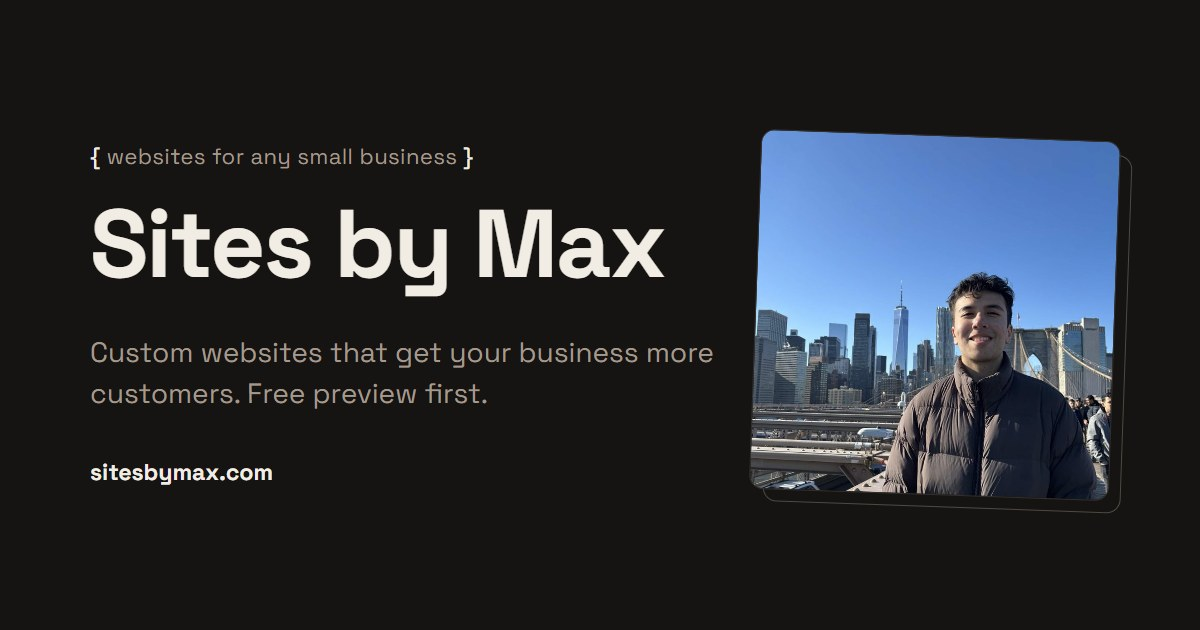
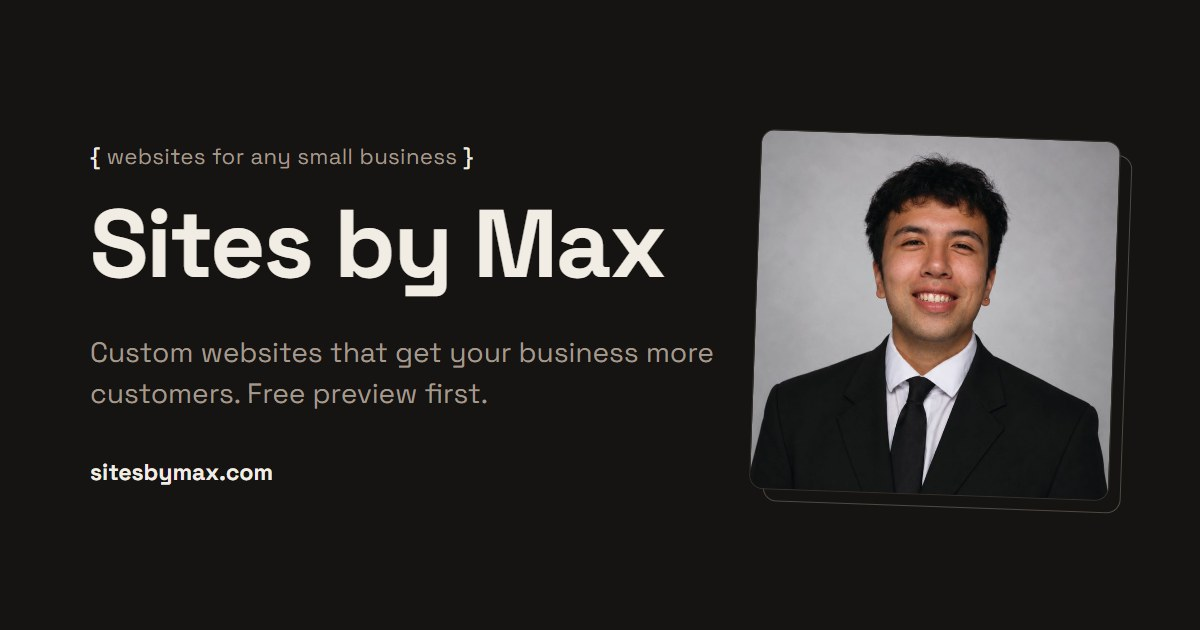
Swap in new headshot photo
- New headshot (color-managed from the CMYK original) as max-headshot.{avif,webp,jpg}
- Point homepage and pressure-washing page hero at the new files, update alt text
- Re-render og-v2.jpg share image with the new photo

Changed region(s): [[0.6167, 0.181, 0.9558, 0.8143]]

diff --git a/pressure-washing-websites.html b/pressure-washing-websites.html
@@ -74,7 +74,7 @@
   <link rel="icon" href="/assets/logo.png">
   <link rel="apple-touch-icon" href="/assets/logo.png">
   <meta name="theme-color" content="#161412">
-  <link rel="preload" as="image" href="/assets/max.avif" type="image/avif" fetchpriority="high">
+  <link rel="preload" as="image" href="/assets/max-headshot.avif" type="image/avif" fetchpriority="high">
   <style>
     /* Critical above-the-fold CSS, inlined for first paint. Source of truth: styles.css (loads async below). */
     @font-face{font-family:'Space Grotesk';font-style:normal;font-weight:400 700;font-display:optional;src:url('/fonts/space-grotesk-latin.woff2') format('woff2');unicode-range:U+0000-00FF,U+0131,U+0152-0153,U+02BB-02BC,U+02C6,U+02DA,U+02DC,U+0304,U+0308,U+0329,U+2000-206F,U+20AC,U+2122,U+2191,U+2193,U+2212,U+2215,U+FEFF,U+FFFD}
@@ -181,9 +181,9 @@
       </div>
       <div class="hero-photo">
         <picture>
-          <source srcset="/assets/max.avif" type="image/avif">
-          <source srcset="/assets/max.webp" type="image/webp">
-          <img src="/assets/max.jpg" alt="Max on the Brooklyn Bridge" width="700" height="700" fetchpriority="high">
+          <source srcset="/assets/max-headshot.avif" type="image/avif">
+          <source srcset="/assets/max-headshot.webp" type="image/webp">
+          <img src="/assets/max-headshot.jpg" alt="Headshot of Max Lichter" width="700" height="700" fetchpriority="high">
         </picture>
         <span class="hero-photo-caption">this is me. the whole team.</span>
       </div>

diff --git a/index.html b/index.html
@@ -113,7 +113,7 @@
   <link rel="icon" href="assets/logo.png">
   <link rel="apple-touch-icon" href="/assets/logo.png">
   <meta name="theme-color" content="#161412">
-  <link rel="preload" as="image" href="assets/max.avif" type="image/avif" fetchpriority="high">
+  <link rel="preload" as="image" href="assets/max-headshot.avif" type="image/avif" fetchpriority="high">
   <style>
     /* Critical above-the-fold CSS, inlined for first paint. Source of truth: styles.css (loads async below). */
     @font-face{font-family:'Space Grotesk';font-style:normal;font-weight:400 700;font-display:optional;src:url('/fonts/space-grotesk-latin.woff2') format('woff2');unicode-range:U+0000-00FF,U+0131,U+0152-0153,U+02BB-02BC,U+02C6,U+02DA,U+02DC,U+0304,U+0308,U+0329,U+2000-206F,U+20AC,U+2122,U+2191,U+2193,U+2212,U+2215,U+FEFF,U+FFFD}
@@ -303,9 +303,9 @@
       </div>
       <div class="hero-photo">
         <picture>
-          <source srcset="assets/max.avif" type="image/avif">
-          <source srcset="assets/max.webp" type="image/webp">
-          <img src="assets/max.jpg" alt="Max on the Brooklyn Bridge" width="700" height="700" fetchpriority="high">
+          <source srcset="assets/max-headshot.avif" type="image/avif">
+          <source srcset="assets/max-headshot.webp" type="image/webp">
+          <img src="assets/max-headshot.jpg" alt="Headshot of Max Lichter" width="700" height="700" fetchpriority="high">
         </picture>
         <span class="hero-photo-caption">this is me. the whole team.</span>
       </div>
